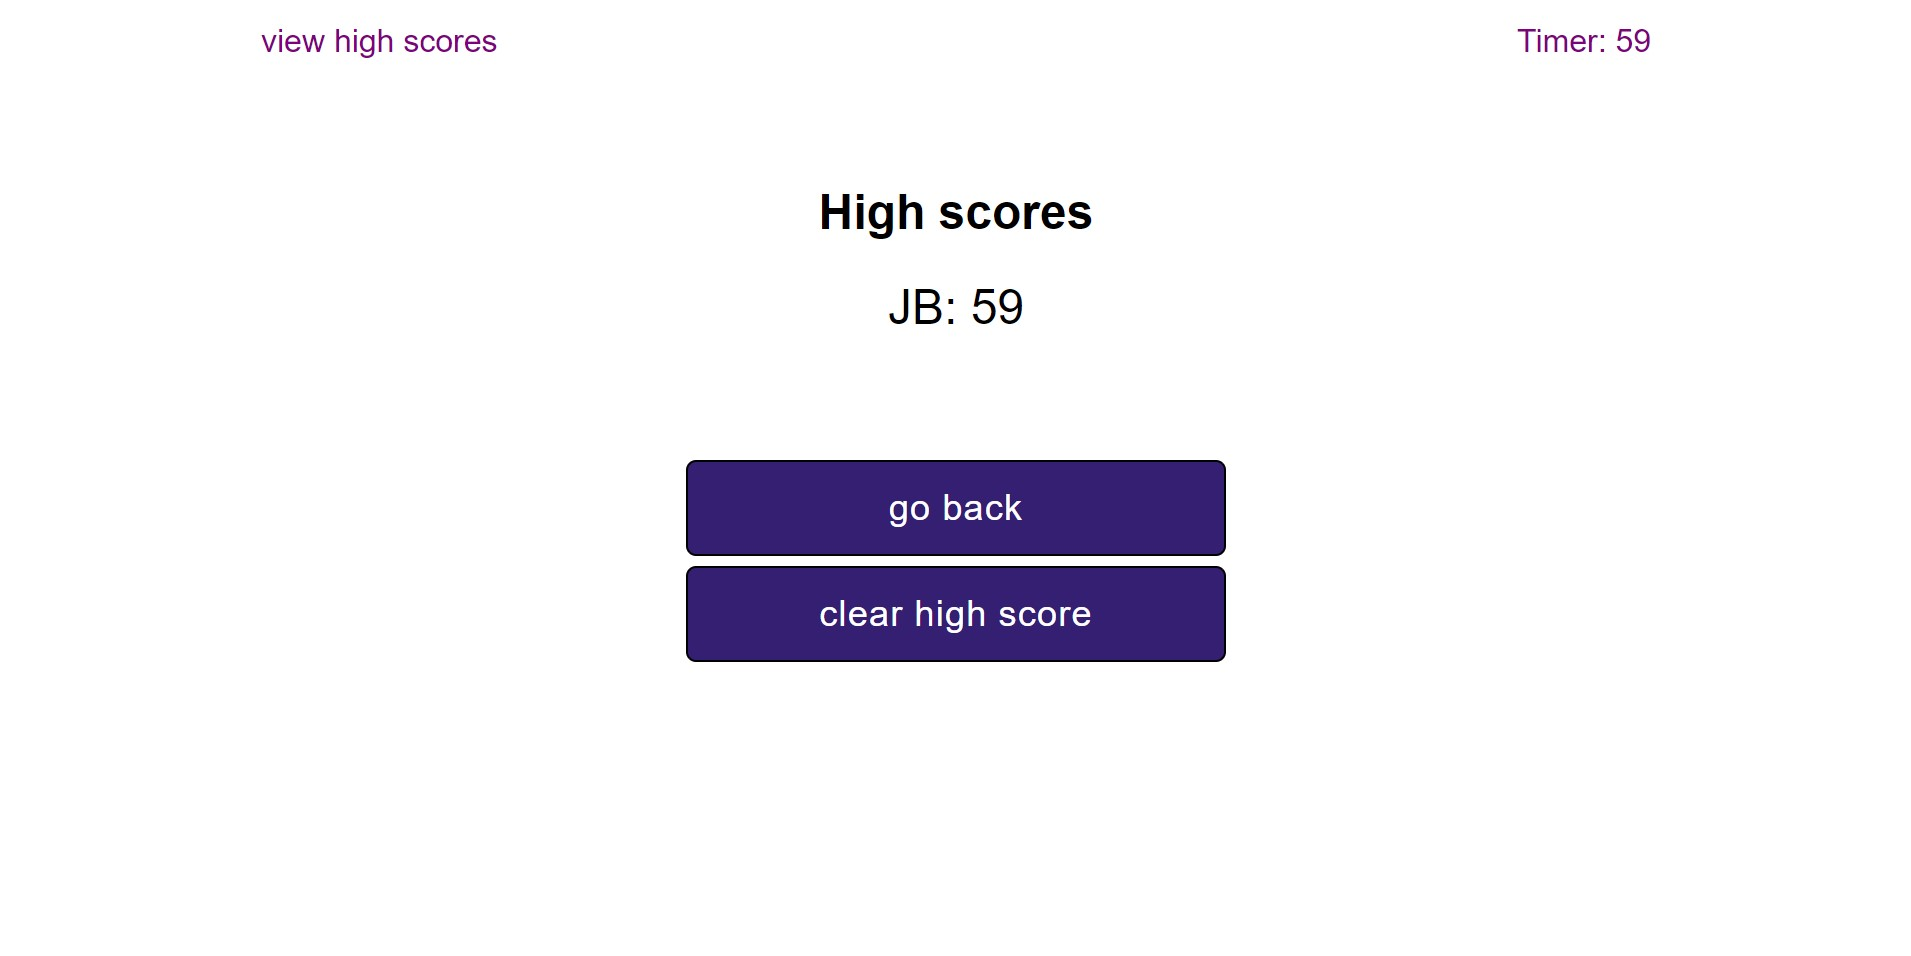
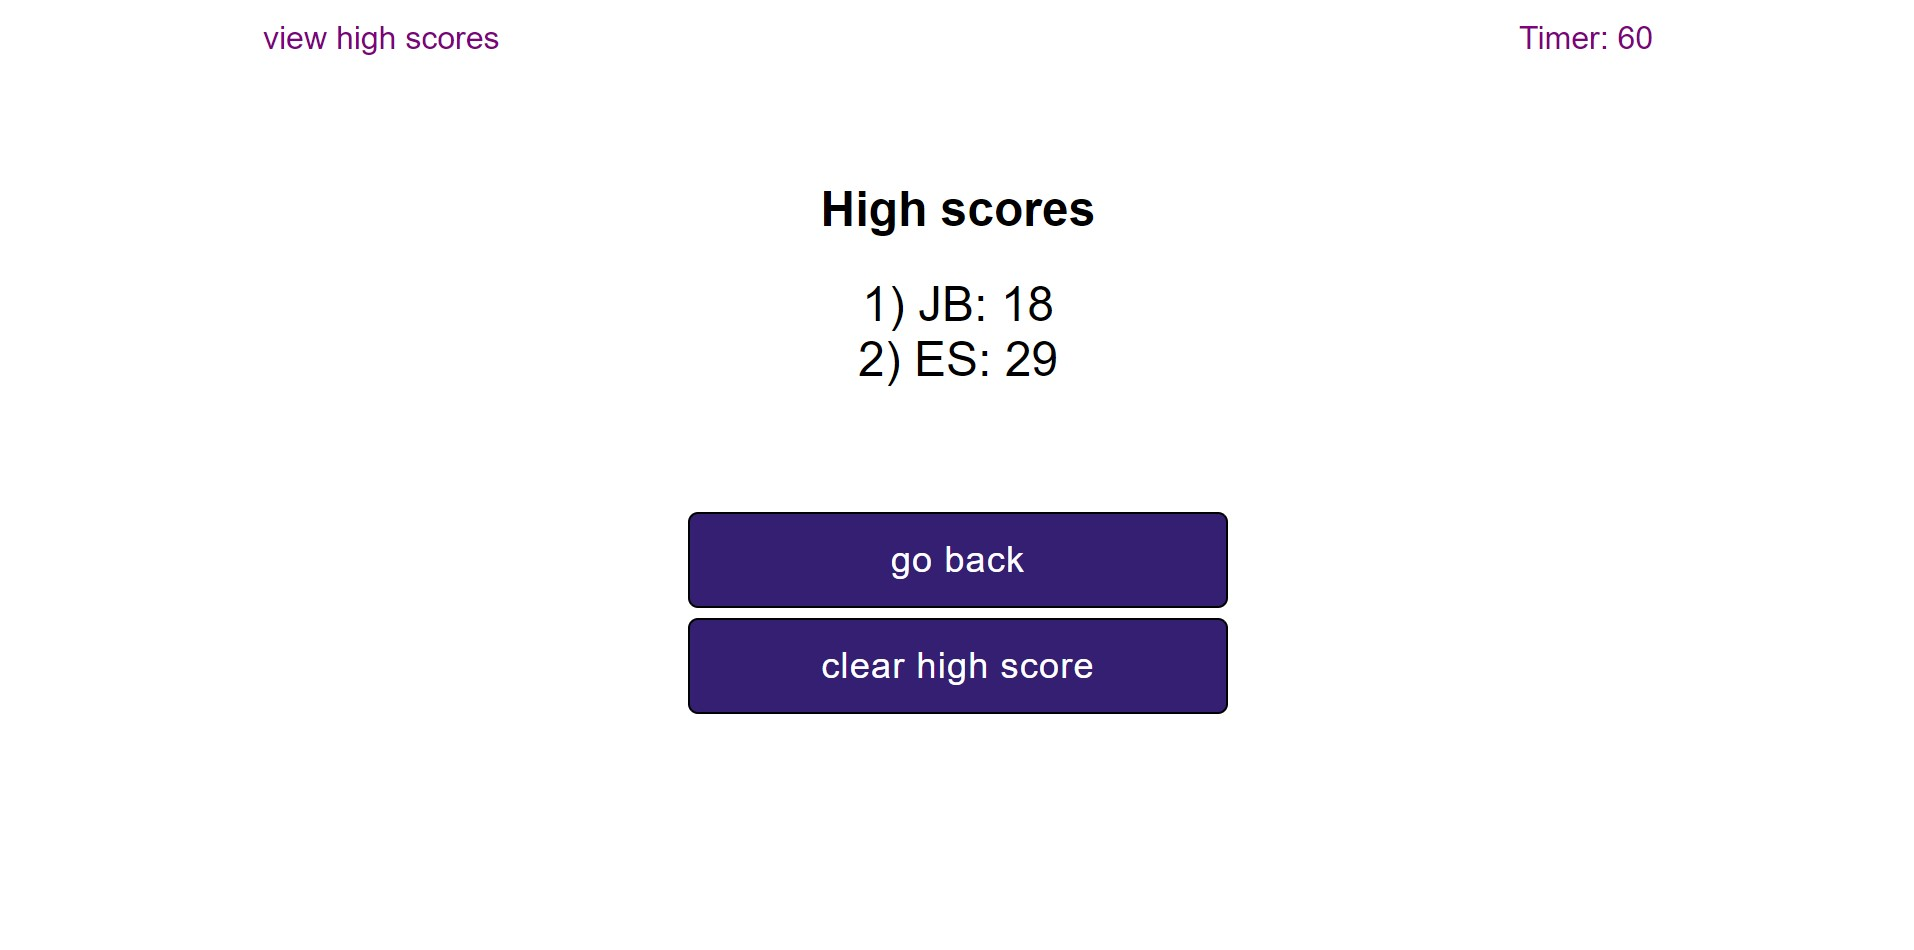
updated README.md

diff --git a/README.md b/README.md
@@ -29,9 +29,6 @@ Desktop main code quiz
 Desktop during code quiz
 ![during code quiz](images/screenshot-desktop-during.jpg)
 
-Desktop end quiz, not high score
-![code quiz end, not high score](images/screenshot-desktop-end-not-highscore.jpg)
-
 Desktop end quiz, with high score
 ![code quiz main screen](images/screenshot-desktop-end-highscore.jpg)
 
@@ -43,19 +40,22 @@ Desktop quiz high score
 Mobile main code quiz  
 ![mobile code quiz main screen](images/screenshot-mobile-main.jpg)  
 
-Desktop during code quiz  
-![mobile during code quiz](images/screenshot-mobile-during.jpg)  
+Mobile during code quiz  
+![mobile during code quiz](images/screenshot-mobile-during.jpg)    
 
-Desktop end quiz, not high score  
-![mobile code quiz end, not high score](images/screenshot-mobile-end-not-highscore.jpg)  
-
-Desktop end quiz, with high score  
+Mobile end quiz, with high score  
 ![mobile code quiz main screen](images/screenshot-mobile-end-highscore.jpg)  
 
-Desktop quiz high score  
+Mobile quiz high scores  
 ![mobile code quiz main screen](images/screenshot-mobile-highscore.jpg)  
 
 
 ## Live Site
 
 [Challenge Week 4 - Coding Quiz](https://joebarbone.github.io/c-w4-code-quiz/)
+
+---
+
+## Updates
+
+2022-05-16 Fixed highscores to reflex array
